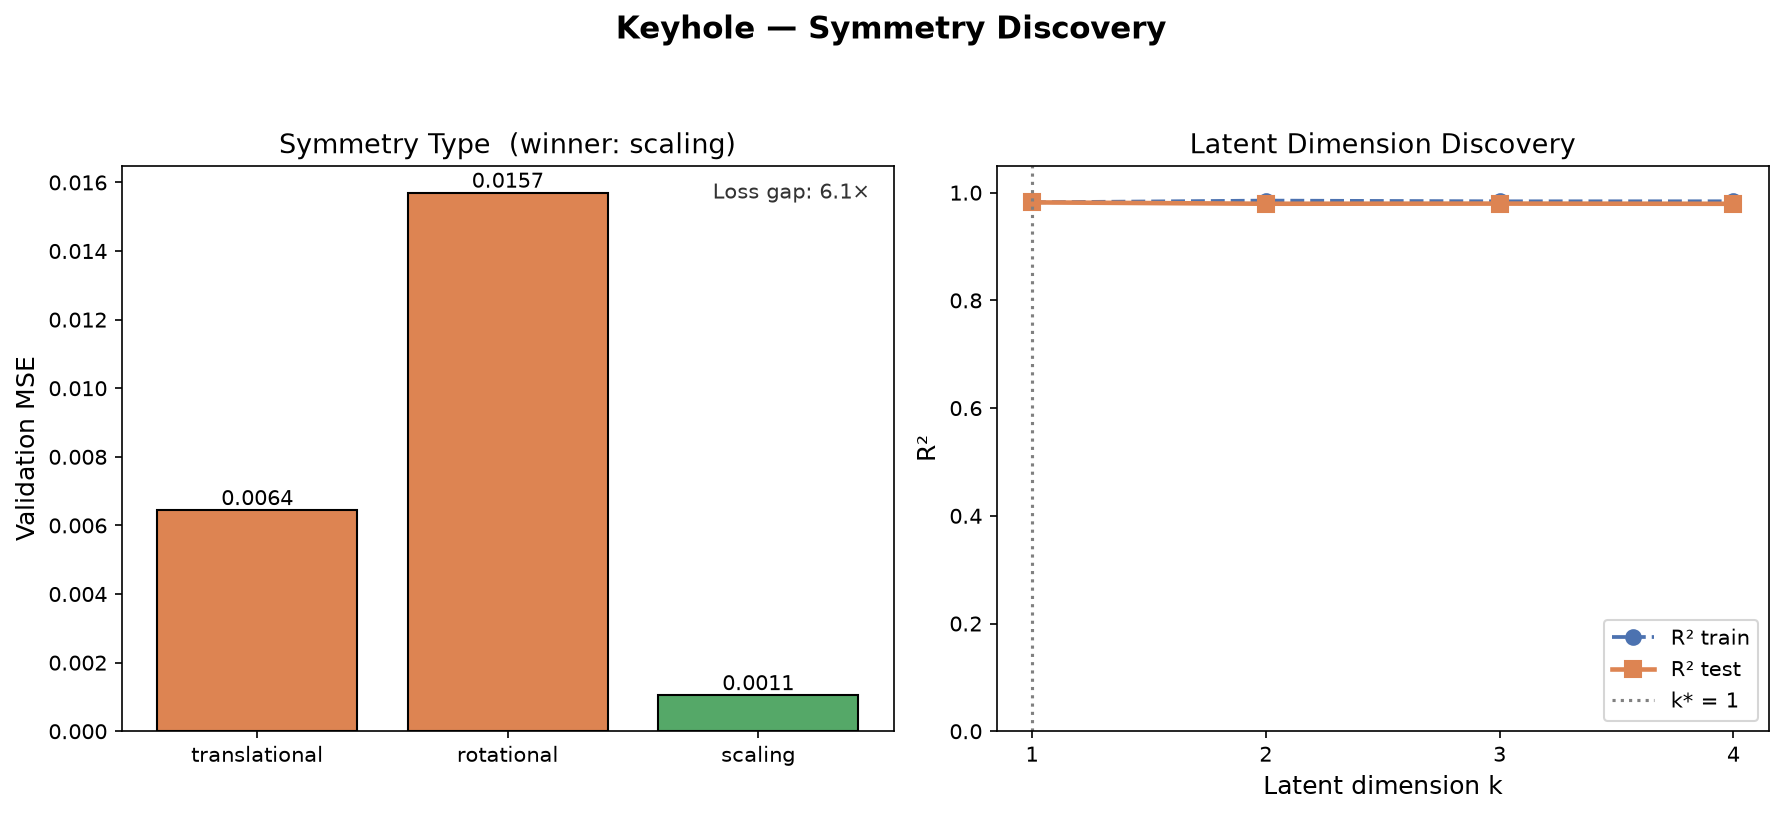
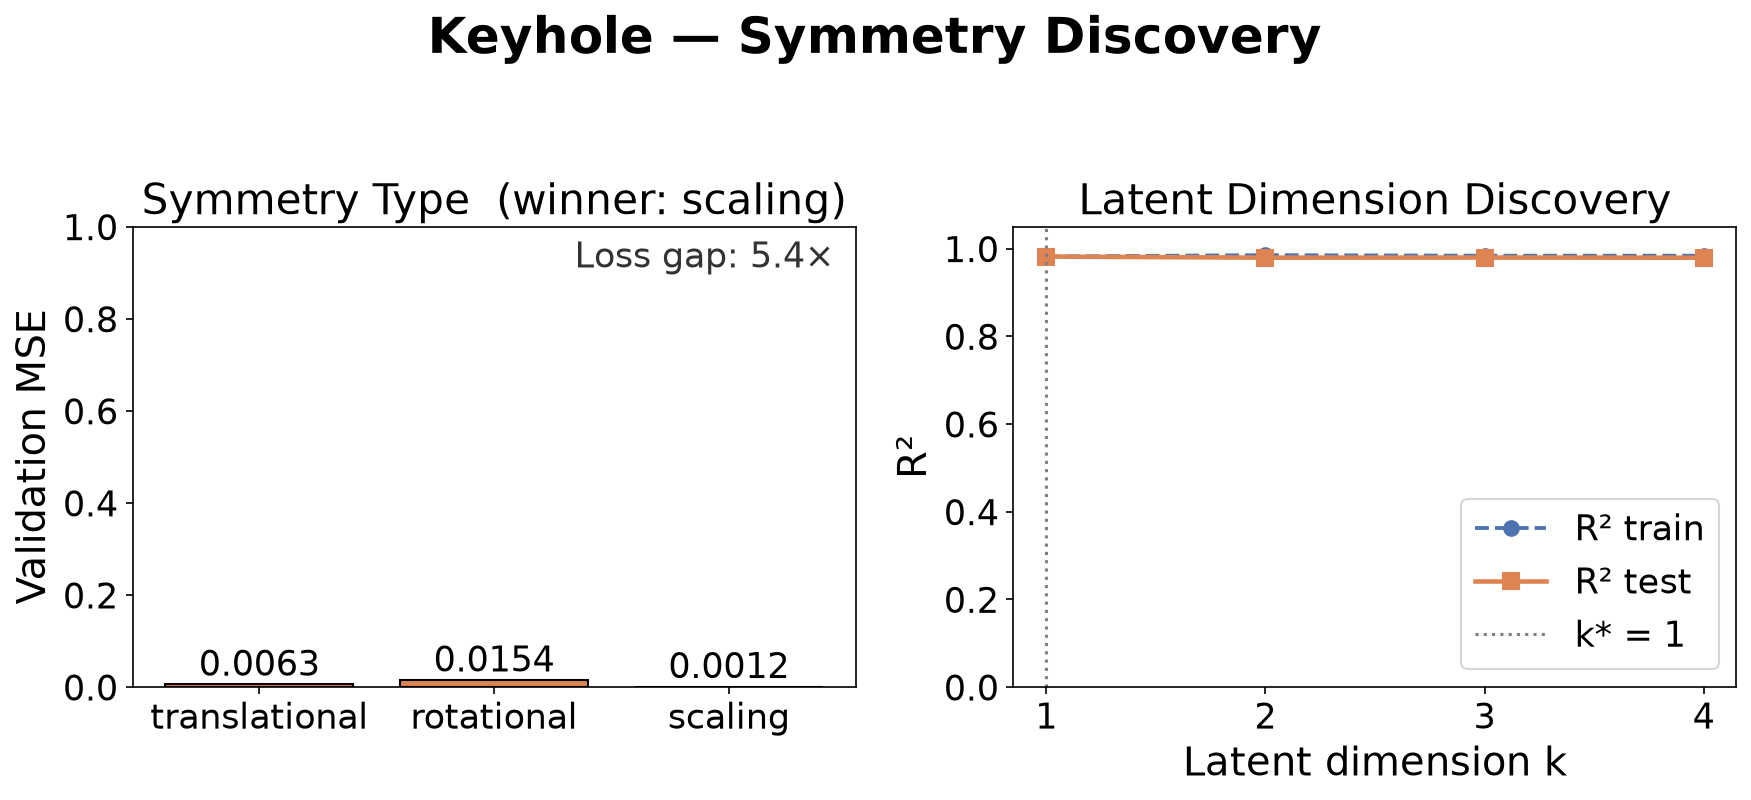
Keyhole example: visualize discovered scaling law and generators
Add a fourth output figure (keyhole_discovered_law_generators.png) with four
panels — discovered W vs known Ke exponents, e* collapse onto the discovered
latent z = W·log|X_norm|, heatmap of the six null-space generators, and an
orbit-invariance check that plots z (exactly flat, by null(W)) alongside the
textbook Ke (which drifts to quantify the encoder-vs-Ke direction mismatch
introduced by the minmax-log preprocessing).

Claude-Session: https://claude.ai/code/session_01MfazmcSa3C3AC7Ey743Vmg

diff --git a/projects/20260912_Stage1_Prokash/Examples/keyhole_symmetry/discover_symmetry.py b/projects/20260912_Stage1_Prokash/Examples/keyhole_symmetry/discover_symmetry.py
@@ -562,6 +562,172 @@ def plot_pi_candidates(X, y, results, output_dir):
     print(f"Pi candidates figure saved to {out_path}")
 
 
+def plot_discovered_law_and_generators(X, y, Ke, results, output_dir):
+    """Visualize the discovered scaling law and the six generator directions.
+
+    Four panels:
+      A. Discovered exponent vector W (from the winning scaling encoder) plotted
+         against the known Ke exponents — both L2-normalized so directions are
+         directly comparable.
+      B. Data collapse: e* vs the discovered latent  z_disc = W · log|X_norm|,
+         and vs log10(Ke) as reference. A near-1D curve in both panels means the
+         discovered law captures the same physics as Ke.
+      C. Heatmap of the 6 generators (rows) × 7 variables (cols). Each row is a
+         direction in log-space along which e* is invariant.
+      D. Orbit invariance test: for each generator g_k, march
+         X(eps) = X0 * exp(eps · g_k) and evaluate the known Ke along the orbit.
+         Curves that stay flat confirm the discovered generators genuinely
+         preserve the physics.
+    """
+    os.makedirs(output_dir, exist_ok=True)
+    winner_encoder = results["winner_encoder"]
+    generators     = results["generators"]
+    W              = winner_encoder.weight_matrix  # (1, 7) for k*=1
+    X_norm_raw     = results["normalization"]["X_normalized"]
+    n_vars         = len(VARIABLE_NAMES)
+    n_gen          = len(generators)
+
+    # ── Panel A: discovered exponent vector vs known Ke exponents ──────────
+    W_dir = W[0] / (np.linalg.norm(W[0]) + 1e-12)
+    Ke_dir = KNOWN_KE_EXPONENTS / np.linalg.norm(KNOWN_KE_EXPONENTS)
+    # Align signs so direction comparison isn't flipped arbitrarily by training
+    if np.dot(W_dir, Ke_dir) < 0:
+        W_dir = -W_dir
+    cos_sim = float(np.dot(W_dir, Ke_dir))
+
+    # ── Panel B: discovered latent z_disc = W · log|X_norm| (encoder-equivalent) ──
+    log_X = np.log(np.clip(np.abs(X_norm_raw), 0.1, None))
+    z_disc = (log_X @ W[0])                    # (n_samples,)
+    log10_Ke = np.log10(np.clip(Ke, 1e-30, None))
+
+    # ── Panel D: orbit invariance in the encoder's native space ────────────
+    # Apply each generator as a step in log|X_norm| space (where the encoder
+    # operates): X_norm(ε) = X_norm(0) · exp(ε · g). z = W · log|X_norm| is
+    # then exactly invariant by construction (g lies in null(W)). Unnormalise
+    # each orbit to raw physical X to also evaluate Ke — its drift measures
+    # the misalignment between the encoder direction and the true Ke
+    # exponent vector.
+    scaler_X = results["normalization"]["scaler_X"]
+    # Start from the elementwise median in normalised space so a symmetric ε
+    # sweep stays inside [0, 1] as long as possible.
+    Xn_start = np.median(X_norm_raw, axis=0)
+    Xn_start = np.clip(Xn_start, 0.1, 1.0)  # avoid the log-clamp region
+    x_start_raw = scaler_X.inverse_transform(Xn_start[None, :])[0]
+    Ke_start = float(compute_ke(x_start_raw[None, :])[0])
+    eps_grid = np.linspace(-0.3, 0.3, 41)
+    orbit_Ke = np.zeros((n_gen, eps_grid.size))
+    orbit_z  = np.zeros((n_gen, eps_grid.size))
+    for k, g in enumerate(generators):
+        Xn_orbit = Xn_start[None, :] * np.exp(np.outer(eps_grid, g))    # (n_eps, n_vars)
+        Xn_orbit = np.clip(Xn_orbit, 1e-6, None)  # stay positive for log/unnorm
+        X_orbit  = scaler_X.inverse_transform(Xn_orbit)
+        orbit_Ke[k] = compute_ke(X_orbit)
+        # z = W · log|X_norm| (with the same 0.1 clamp the encoder uses)
+        log_Xn = np.log(np.clip(np.abs(Xn_orbit), 0.1, None))
+        orbit_z[k] = log_Xn @ W[0]
+    z_start = float(orbit_z[0, len(eps_grid) // 2]) if n_gen > 0 else 0.0
+
+    # ── Build the figure ────────────────────────────────────────────────────
+    fig = plt.figure(figsize=(17, 13))
+    gs  = fig.add_gridspec(2, 2, hspace=0.62, wspace=0.34)
+    fig.suptitle("Keyhole — Discovered Scaling Law & Invariance Generators",
+                 fontweight="bold")
+
+    # Panel A: discovered W vs known Ke exponents (both L2-normalized)
+    ax = fig.add_subplot(gs[0, 0])
+    x_pos = np.arange(n_vars)
+    bar_w = 0.38
+    ax.bar(x_pos - bar_w / 2, W_dir, bar_w,
+           color="#4C72B0", edgecolor="black", label="Discovered W (encoder)")
+    ax.bar(x_pos + bar_w / 2, Ke_dir, bar_w,
+           color="#DD8452", edgecolor="black", label="Known Ke exponents")
+    ax.axhline(0, color="black", lw=0.6)
+    ax.set_xticks(x_pos)
+    ax.set_xticklabels(VARIABLE_NAMES, rotation=30, ha="right")
+    ax.set_ylabel("Exponent (L2-normalized)")
+    ax.set_title(
+        f"Discovered scaling law vs known Ke  (direction cos = {cos_sim:+.3f})\n"
+        "W is a direction in log|X_norm| space, not the raw-log Ke exponents",
+        fontsize=17)
+    ax.legend(loc="best", fontsize=13)
+
+    # Panel B: data collapse — e* vs z_disc, with e* vs log10(Ke) as reference
+    ax = fig.add_subplot(gs[0, 1])
+    order_disc = np.argsort(z_disc)
+    ax.scatter(z_disc, y, c="#4C72B0", s=22, alpha=0.75, edgecolors="none",
+               label="e* vs discovered z")
+    # R² of a quadratic fit against z_disc, as a "collapse quality" number
+    try:
+        c = np.polyfit(z_disc, y, 2)
+        y_hat = np.polyval(c, z_disc)
+        ss_res = np.sum((y - y_hat) ** 2)
+        ss_tot = np.sum((y - y.mean()) ** 2)
+        r2 = 1 - ss_res / (ss_tot + 1e-12)
+        zf = np.linspace(z_disc.min(), z_disc.max(), 200)
+        ax.plot(zf, np.polyval(c, zf), "r-", lw=1.8, alpha=0.9,
+                label=f"quad fit  R²={r2:.3f}")
+    except Exception:
+        pass
+    ax.set_xlabel("Discovered latent  z = W · log|X_norm|")
+    ax.set_ylabel("e*")
+    ax.set_title("Data collapse onto the discovered law")
+    ax.legend(loc="best", fontsize=13)
+
+    # Panel C: generator heatmap — 6 rows × 7 columns
+    ax = fig.add_subplot(gs[1, 0])
+    if n_gen > 0:
+        G = np.stack([g if g.ndim == 1 else g.ravel() for g in generators], axis=0)
+        vmax = float(np.max(np.abs(G))) or 1.0
+        im = ax.imshow(G, cmap="RdBu_r", vmin=-vmax, vmax=vmax, aspect="auto")
+        ax.set_xticks(range(n_vars))
+        ax.set_xticklabels(VARIABLE_NAMES, rotation=30, ha="right")
+        ax.set_yticks(range(n_gen))
+        ax.set_yticklabels([f"g{i+1}" for i in range(n_gen)])
+        for i in range(n_gen):
+            for j in range(n_vars):
+                v = G[i, j]
+                if abs(v) > 0.05:
+                    ax.text(j, i, f"{v:+.2f}", ha="center", va="center",
+                            color="white" if abs(v) > 0.6 * vmax else "black",
+                            fontsize=13)
+        fig.colorbar(im, ax=ax, fraction=0.046, pad=0.04, label="component")
+        ax.set_title(f"{n_gen} generators of e*-invariance  (rows = null(W))")
+    else:
+        ax.set_axis_off()
+        ax.set_title("No generators")
+
+    # Panel D: invariance along each orbit — discovered z (exact by
+    # construction) vs textbook Ke (drifts with encoder–Ke misalignment).
+    ax = fig.add_subplot(gs[1, 1])
+    cmap = plt.get_cmap("tab10")
+    for k in range(n_gen):
+        rel_Ke = orbit_Ke[k] / Ke_start
+        ax.plot(eps_grid, rel_Ke, "-", color=cmap(k % 10), lw=1.8,
+                label=f"Ke, g{k+1}")
+    # Discovered z stays flat by construction — plot one bold reference line
+    if n_gen > 0 and abs(z_start) > 1e-9:
+        rel_z = orbit_z[0] / z_start
+        ax.plot(eps_grid, rel_z, "k--", lw=2.2, alpha=0.9,
+                label="z (discovered)")
+    ax.axhline(1.0, color="grey", ls=":", lw=1.2)
+    ax.set_xlabel("Orbit parameter  ε   (log|X_norm| → log|X_norm| + ε·g)")
+    ax.set_ylabel("ratio to ε=0")
+    ax.set_title("Invariance check along each orbit")
+    ax.legend(loc="best", ncol=2, fontsize=11)
+    y_dev = float(np.max(np.abs(orbit_Ke / Ke_start - 1.0)))
+    ax.text(0.03, 0.03,
+            f"max |ΔKe/Ke|={y_dev:.2f} at |ε|=0.3\n"
+            "z stays flat (null(W) by construction)",
+            transform=ax.transAxes, va="bottom", ha="left", fontsize=11,
+            color="#333333")
+
+    plt.tight_layout(rect=[0, 0, 1, 0.95])
+    out_path = os.path.join(output_dir, "keyhole_discovered_law_generators.png")
+    fig.savefig(out_path, dpi=150, bbox_inches="tight")
+    plt.close(fig)
+    print(f"Discovered-law & generators figure saved to {out_path}")
+
+
 def plot_results(X, y, results, output_dir):
     """Two-panel summary: symmetry type bar chart + latent-dimension R² curve."""
     os.makedirs(output_dir, exist_ok=True)
@@ -642,6 +808,7 @@ def main():
     print("=" * 60)
     plot_pi_candidates(X, y, results, args.output_dir)
     plot_results(X, y, results, args.output_dir)
+    plot_discovered_law_and_generators(X, y, Ke, results, args.output_dir)
 
     print()
     print("=" * 60)

diff --git a/projects/20260912_Stage1_Prokash/Examples/keyhole_symmetry/README.md b/projects/20260912_Stage1_Prokash/Examples/keyhole_symmetry/README.md
@@ -196,6 +196,7 @@ All outputs go to `output_keyhole_symmetry/` (configurable via `--output-dir`).
 |---|---|
 | `keyhole_pi_candidates.png` | Pi-basis exponent heatmap + scatter of `e*` vs each `log₁₀(Πₖ)` with logistic fit and R² |
 | `keyhole_symmetry_discovery.png` | 3-panel: Pi-collapse, symmetry-type bar chart, discovered iso-invariant orbits in log-space |
+| `keyhole_discovered_law_generators.png` | 4-panel: discovered `W` vs known Ke exponents, `e*` collapse onto the discovered latent, heatmap of the 6 null-space generators, and orbit-invariance check comparing the exact `z` invariant with the drift in textbook `Ke` |
 | `_da_repo/dimension_matrix.csv` | Explicit dimension matrix fed to `DataPreprocessor` |
 | `_da_repo/basis_vectors.csv` | Integer Pi-group exponent vectors |
 
